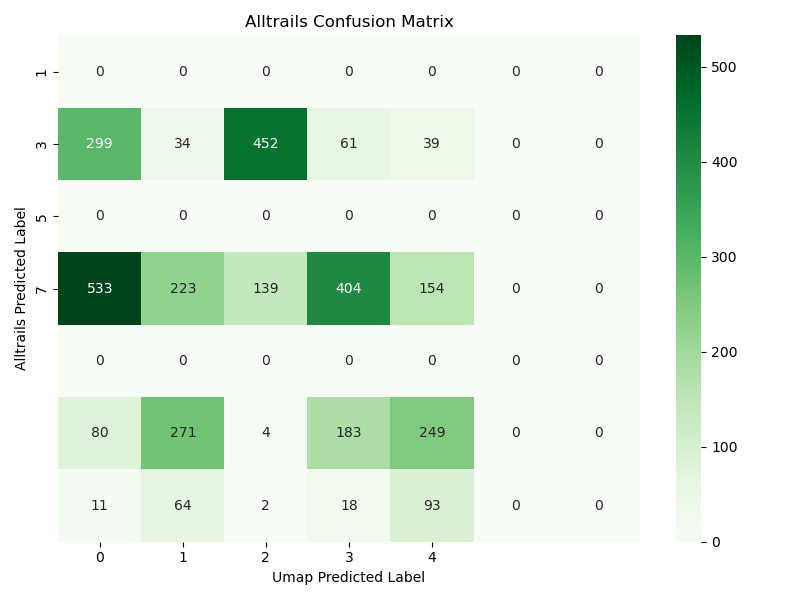
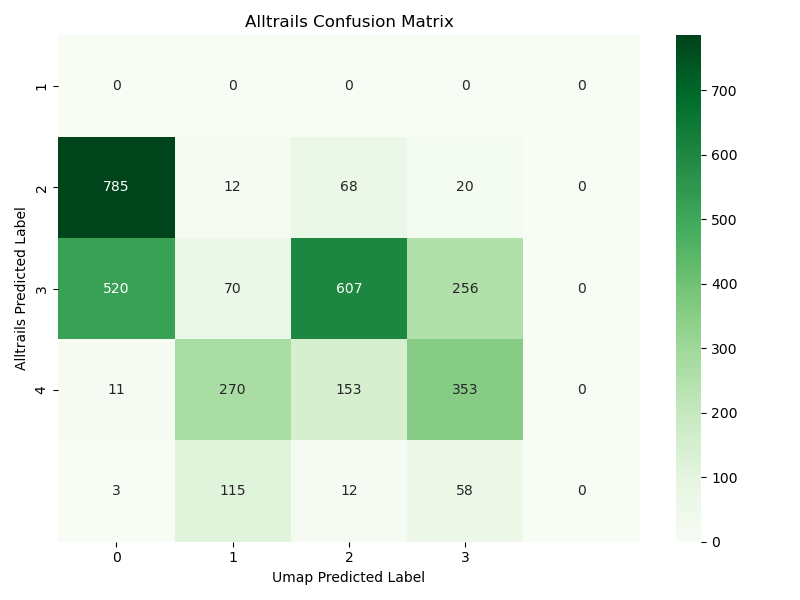
edits

diff --git a/umap/umap_clustering.py b/umap/umap_clustering.py
@@ -8,6 +8,21 @@ import seaborn as sns
 
 # Loading Data
 alltrails = pd.read_csv('../alltrails-data.csv')
+
+mapping_dif = {1:1, 3:2, 5:3, 7:4}
+alltrails["difficulty_rating"] = [mapping_dif[x] for x in alltrails["difficulty_rating"]]
+
+def convert_to_miles(row):
+    if row['units'] == 'i':
+        return row['length'] / 1760 # converting to yards
+    elif row['units'] == 'm':
+        return row['length'] / 1609.344 # converting to meters
+    else:
+        return None  # or row['length'] if you want to keep unconverted
+
+alltrails['length_miles'] = alltrails.apply(convert_to_miles, axis=1)
+
+
 chat = pd.read_csv('../chatgpt_new_difficulty_ratings.csv')
 print(chat.columns.tolist())
 
@@ -17,7 +32,7 @@ alltrails['route_type_encoded'], uniques = pd.factorize(alltrails['route_type'])
 
 print(alltrails["area_name"].unique())
 # Reducing to data used for ML
-data = alltrails[["city_encoded", "popularity", "length", "elevation_gain"]]
+data = alltrails[["city_encoded", "popularity", "length_miles", "elevation_gain"]]
 
 # Checking for NAs
 cols_with_na = data.columns[data.isna().any()].tolist()
@@ -27,13 +42,16 @@ print(cols_with_na) # None
 reducer = umap.UMAP(n_neighbors=50, min_dist=0.1, n_components=2, random_state=42)
 embedding = reducer.fit_transform(data)
 
-n_clusters = 5
+n_clusters = 4
 kmeans = KMeans(n_clusters=n_clusters, random_state=42)
 labels = kmeans.fit_predict(embedding)
 
 alltrails_labels = np.array(alltrails["difficulty_rating"])
 pred_labels = np.array(labels)
 chatpred_labels = np.array(chat["difficulty_rating"])
+
+mapping = {0: 1, 1: 4, 2: 2, 3: 3}
+transformed = [mapping[x] for x in pred_labels]
 
 unique, counts = np.unique(alltrails_labels, return_counts=True)
 
@@ -64,7 +82,7 @@ plt.show()
 for_plotting = pd.DataFrame({
     "x" : embedding[:, 0],
     "y" : embedding[:, 1],
-    "cluster" : pred_labels,
+    "cluster" : transformed,
     "Alltrails_Value": alltrails_labels,
     "ChatGPT_Value": chatpred_labels
 })
@@ -112,7 +130,7 @@ plt.show()
 
 # Visualization
 plt.figure(figsize=(8, 6))
-plt.scatter(embedding[:, 0], embedding[:, 1], c=labels, cmap='viridis', s=50)
+plt.scatter(embedding[:, 0], embedding[:, 1], c=pred_labels, cmap='viridis', s=50)
 plt.title('UMAP + KMeans Clustering')
 plt.xlabel('UMAP-1')
 plt.ylabel('UMAP-2')
@@ -140,16 +158,21 @@ plt.tight_layout()
 plt.show()
 
 df_pred = pd.DataFrame({
+    "TrailID": alltrails["trail_id"],
     "Trail": alltrails["name"],
-    "Length": alltrails["length"],
+    "Length": alltrails["length_miles"],
     "elevation_gain": alltrails["elevation_gain"],
     "alltrails_labels": alltrails_labels,
-    "Predicted_Class": pred_labels
+    "Cluster_Class": transformed,
+    "Chat Class": chatpred_labels
 })
 
-sampled_df = df_pred.groupby('Predicted_Class').sample(n=4, random_state=42)
+sample_hikes = [10245012, 10265905, 10266148, 10027395, 10006571,
+                10033258, 10006208, 10007701, 10289730, 10011593]
 
-sampled_df.to_csv("output.csv", index=False)
+sample = df_pred[df_pred["TrailID"].isin(sample_hikes)]
+
+sample.to_csv("output.csv", index=False)
 
 
 
